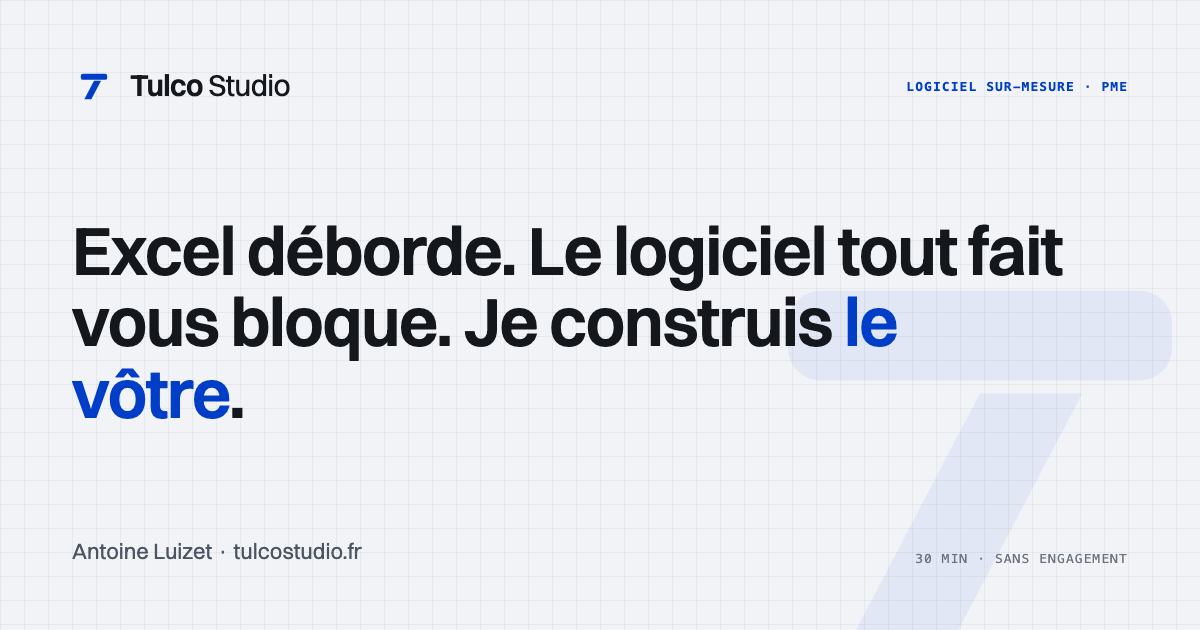
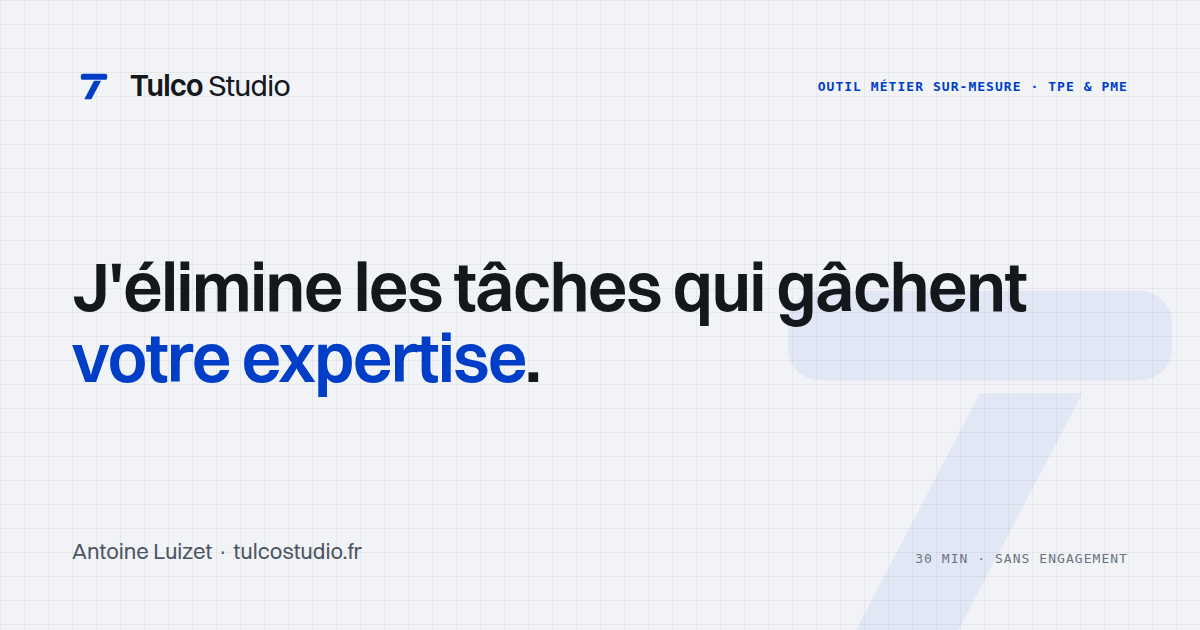
Intègre le nouveau positionnement « expertise » dans la LP
- Hero : accroche « J'élimine les tâches qui gâchent votre expertise »
  (client en avant), argent en sous-ligne, imagerie Excel/gestion manuelle
  redescendue en appui ; label de stat « répétitives » → « gestion manuelle »
- Constat : rend l'argent visible (Excel = symptôme, « l'argent fuit sans
  que vous le voyiez »)
- Pourquoi moi : remonte le vrai différenciateur — une équipe produit
  entière en une personne ; ajoute la chaîne produit en 5 blocs
  (Comprendre · Concevoir · Construire · Fiabiliser · Faire adopter,
  « le code = 1 étape sur 5 »)
- Retire « automatiser/répétitives » de la surface marketing (CTA, étape 1,
  bio) ; conserve les mentions dans les Réalisations (preuves factuelles)
- Cible élargie TPE & PME ; métadonnées, OG/Twitter et og.png régénérés
  sur la nouvelle accroche

Claude-Session: https://claude.ai/code/session_018DYJC57UY1qEqDjfR77p22

diff --git a/index.html b/index.html
@@ -4,21 +4,21 @@
 <meta charset="utf-8">
 <meta name="viewport" content="width=device-width, initial-scale=1">
 <link rel="icon" type="image/svg+xml" href="favicon.svg">
-<title>Tulco Studio · Outil sur-mesure pour PME</title>
-<meta name="description" content="Excel déborde, le logiciel tout fait vous bloque. Je construis l'outil sur-mesure taillé pour votre métier, livré vite, sans la facture d'une agence. 30 min sans engagement.">
+<title>Tulco Studio · Outil métier sur-mesure pour TPE & PME</title>
+<meta name="description" content="J'élimine les tâches qui gâchent votre expertise. Je conçois et développe l'outil métier sur-mesure qui fait disparaître la gestion manuelle — et vous rend le temps et l'argent qu'elle vous coûte. 30 min sans engagement.">
 <meta property="og:type" content="website">
 <meta property="og:url" content="https://www.tulcostudio.fr/">
 <meta property="og:site_name" content="Tulco Studio">
-<meta property="og:title" content="Tulco Studio · Outil sur-mesure pour PME">
-<meta property="og:description" content="Excel déborde. Le logiciel tout fait vous bloque. Je construis le vôtre.">
+<meta property="og:title" content="Tulco Studio · J'élimine les tâches qui gâchent votre expertise">
+<meta property="og:description" content="Un outil métier sur-mesure qui fait disparaître la gestion manuelle — et vous rend le temps et l'argent qu'elle vous coûte.">
 <meta property="og:image" content="https://www.tulcostudio.fr/og.png">
 <meta property="og:image:width" content="1200">
 <meta property="og:image:height" content="630">
-<meta property="og:image:alt" content="Tulco Studio : outil sur-mesure pour PME">
+<meta property="og:image:alt" content="Tulco Studio : outil métier sur-mesure pour TPE & PME">
 <meta property="og:locale" content="fr_FR">
 <meta name="twitter:card" content="summary_large_image">
-<meta name="twitter:title" content="Tulco Studio · Outil sur-mesure pour PME">
-<meta name="twitter:description" content="Excel déborde. Le logiciel tout fait vous bloque. Je construis le vôtre.">
+<meta name="twitter:title" content="Tulco Studio · J'élimine les tâches qui gâchent votre expertise">
+<meta name="twitter:description" content="Un outil métier sur-mesure qui fait disparaître la gestion manuelle — et vous rend le temps et l'argent qu'elle vous coûte.">
 <meta name="twitter:image" content="https://www.tulcostudio.fr/og.png">
 <script src="./support.js"></script>
 </head>
@@ -51,6 +51,11 @@
     .why-intro { grid-template-columns: 1fr; gap: 28px; }
     .why-grid { grid-template-columns: 1fr; }
   }
+  .chain-grid { display: grid; grid-template-columns: repeat(5, minmax(0, 1fr)); background: var(--border-default); gap: 1px; }
+  .chain-cell { background: var(--white); padding: clamp(18px,2vw,24px) clamp(14px,1.6vw,20px); display: flex; flex-direction: column; gap: 8px; }
+  .chain-cell.is-code { background: var(--bg-subtle); }
+  @media (max-width: 760px) { .chain-grid { grid-template-columns: repeat(2, minmax(0, 1fr)); } }
+  @media (max-width: 440px) { .chain-grid { grid-template-columns: 1fr; } }
   .hero-stats {
     display: flex;
     justify-content: flex-end;
@@ -189,9 +194,10 @@
     </div>
     <div style="position: relative; max-width: var(--container-max); margin: 0 auto; padding: clamp(48px,7vw,84px) clamp(20px,5vw,64px) clamp(36px,5vw,56px);">
       <div style="max-width: 900px;">
-        <div style="font-family: var(--font-mono); font-size: 12px; font-weight: 600; text-transform: uppercase; letter-spacing: 0.08em; color: var(--accent); margin-bottom: 16px;">Outil sur-mesure · PME</div>
-        <h1 style="margin: 0; font-weight: 600; font-size: clamp(36px,6vw,78px); line-height: var(--leading-tight); letter-spacing: var(--tracking-display); color: var(--text-primary);">Excel déborde. Le logiciel tout fait vous bloque. Je construis le vôtre.</h1>
-        <p style="margin: 28px 0 0; max-width: 620px; font-size: var(--text-md); line-height: var(--leading-relaxed); color: var(--text-secondary);">Un outil taillé pour votre métier, livré vite, sans la facture d'une agence. Vous parlez directement à celui qui construit.</p>
+        <div style="font-family: var(--font-mono); font-size: 12px; font-weight: 600; text-transform: uppercase; letter-spacing: 0.08em; color: var(--accent); margin-bottom: 16px;">Outil métier sur-mesure · TPE &amp; PME</div>
+        <h1 style="margin: 0; font-weight: 600; font-size: clamp(36px,6vw,78px); line-height: var(--leading-tight); letter-spacing: var(--tracking-display); color: var(--text-primary);">J'élimine les tâches qui gâchent votre expertise.</h1>
+        <p style="margin: 24px 0 0; max-width: 660px; font-size: var(--text-lg); line-height: 1.35; color: var(--text-primary); font-weight: 500;">Le temps et l'argent qu'elles vous coûtent, vous les remettez sur ce que vous faites de mieux.</p>
+        <p style="margin: 18px 0 0; max-width: 620px; font-size: var(--text-md); line-height: var(--leading-relaxed); color: var(--text-secondary);">Je conçois et développe un outil métier sur-mesure qui fait disparaître la gestion manuelle — saisie en double, relances, facturation, reporting. Livré vite, sans la facture d'une agence. Vous parlez directement à celui qui construit.</p>
         <div class="hero-cta">
           <x-import component-from-global-scope="TulcoStudioDesignSystem_ac5776.Button" variant="primary" size="lg" onClick="{{ openBooking }}" hint-size="240px,50px">Réserver un appel de 30 min</x-import>
           <x-import component-from-global-scope="TulcoStudioDesignSystem_ac5776.Button" variant="secondary" size="lg" onClick="{{ jumpRealisations }}" hint-size="200px,50px">Voir des exemples concrets</x-import>
@@ -200,7 +206,7 @@
       <div class="hero-stats">
         <div class="hero-stat">
           <div class="hero-stat-value">−50&nbsp;% de temps</div>
-          <div class="hero-stat-label">sur les tâches répétitives</div>
+          <div class="hero-stat-label">sur la gestion manuelle</div>
         </div>
         <div class="hero-stat">
           <div class="hero-stat-value">2x plus</div>
@@ -219,8 +225,9 @@
       <div>
         <div style="font-family: var(--font-mono); font-size: 12px; font-weight: 600; text-transform: uppercase; letter-spacing: 0.08em; color: var(--accent); margin-bottom: 16px;">Le constat</div>
         <h2 style="margin: 0 0 20px; font-weight: 600; font-size: clamp(26px,4vw,42px); letter-spacing: var(--tracking-heading); max-width: 520px;">Fichiers qui débordent, logiciel qui vous bloque.</h2>
-        <p style="margin: 0 0 16px; font-size: var(--text-md); line-height: var(--leading-relaxed); color: var(--text-secondary); max-width: 460px;">Au début, Excel suffisait. Vous avez ajouté un logiciel du marché. Aujourd'hui, ni l'un ni l'autre n'épouse vraiment votre métier.</p>
-        <p style="margin: 0; font-size: var(--text-md); line-height: var(--leading-relaxed); color: var(--text-primary); max-width: 460px;">Ce n'est pas un problème de motivation, c'est un problème d'outil. Le logiciel tout fait est trop rigide ou hors de prix. Et une agence vous facture six mois et trois intermédiaires pour quelque chose que vous ne maîtriserez jamais.</p>
+        <p style="margin: 0 0 16px; font-size: var(--text-md); line-height: var(--leading-relaxed); color: var(--text-secondary); max-width: 460px;">Au début, Excel suffisait. Vous avez ajouté un logiciel du marché. Aujourd'hui, ni l'un ni l'autre n'épouse vraiment votre métier — et chaque tâche gérée à la main vous coûte du temps et de l'argent.</p>
+        <p style="margin: 0 0 16px; font-size: var(--text-md); line-height: var(--leading-relaxed); color: var(--text-primary); max-width: 460px;">Ce n'est pas un problème de motivation, c'est un problème d'outil. Le logiciel tout fait est trop rigide ou hors de prix. Et une agence vous facture six mois et trois intermédiaires pour quelque chose que vous ne maîtriserez jamais.</p>
+        <p style="margin: 0; font-size: var(--text-md); line-height: var(--leading-relaxed); color: var(--text-primary); max-width: 460px; font-weight: 500;">Excel n'est plus l'outil : c'est le symptôme. Quand tout tourne sur des tableurs et de la mémoire, l'argent fuit sans que vous le voyiez.</p>
       </div>
       <div style="background: var(--white); border: 1px solid var(--border-default); border-top: var(--rule-accent) solid var(--danger);">
         <div style="display: flex; gap: 14px; align-items: flex-start; padding: var(--space-5) var(--space-6); border-bottom: 1px solid var(--border-default);">
@@ -258,7 +265,7 @@
   <section id="solution" data-screen-label="Solution" style="border-bottom: 1px solid var(--border-default);">
     <div style="max-width: var(--container-max); margin: 0 auto; padding: clamp(48px,8vw,96px) clamp(20px,5vw,64px);">
       <div style="font-family: var(--font-mono); font-size: 12px; font-weight: 600; text-transform: uppercase; letter-spacing: 0.08em; color: var(--accent); margin-bottom: 16px;">Pourquoi moi</div>
-      <h2 style="margin: 0 0 clamp(36px,5vw,56px); font-weight: 600; font-size: clamp(26px,4vw,42px); letter-spacing: var(--tracking-heading); max-width: 720px;">Un seul interlocuteur, qui conçoit et qui code votre outil.</h2>
+      <h2 style="margin: 0 0 clamp(36px,5vw,56px); font-weight: 600; font-size: clamp(26px,4vw,42px); letter-spacing: var(--tracking-heading); max-width: 720px;">Une équipe produit entière. En une seule personne.</h2>
       <div class="why-intro" style="margin-bottom: clamp(36px,5vw,56px);">
         <div data-reveal="" style="display: flex; flex-direction: column; gap: 16px;">
           <img src="assets/antoine.png" alt="Antoine Luizet, fondateur de Tulco Studio" style="width: 200px; height: 200px; max-width: 100%; border-radius: 50%; display: block; border: 2px solid var(--accent);">
@@ -268,8 +275,45 @@
           </div>
         </div>
         <div style="display: flex; flex-direction: column; gap: 18px; max-width: 640px;">
-          <p style="margin: 0; font-size: var(--text-md); line-height: var(--leading-relaxed); color: var(--text-secondary);">Je m'appelle Antoine Luizet. Je construis des outils sur-mesure pour les PME, pour remplacer Excel et les logiciels tout faits qui vous bloquent.</p>
-          <p style="margin: 0; font-size: var(--text-md); line-height: var(--leading-relaxed); color: var(--text-secondary);">Concrètement : des interfaces de gestion claires, des automatisations qui tournent toutes seules (emails, SMS, documents, facturation) et un pilotage de votre activité en temps réel. Le tout calé sur votre façon de travailler, pas l'inverse.</p>
+          <p style="margin: 0; font-size: var(--text-md); line-height: var(--leading-relaxed); color: var(--text-secondary);">Je m'appelle Antoine Luizet. Je construis des outils métier sur-mesure pour les TPE et PME, pour remplacer Excel et les logiciels tout faits qui vous bloquent.</p>
+          <p style="margin: 0; font-size: var(--text-md); line-height: var(--leading-relaxed); color: var(--text-secondary);">Concrètement : des interfaces de gestion claires, des tâches qui se font toutes seules (emails, SMS, documents, facturation) et un pilotage de votre activité en temps réel — calés sur votre façon de travailler, pas l'inverse.</p>
+          <p style="margin: 0; font-size: var(--text-md); line-height: var(--leading-relaxed); color: var(--text-secondary);">Vous n'avez pas à assembler un designer, un dev, un intégrateur et une agence : un seul cerveau garde l'outil cohérent et fidèle à votre métier, du problème jusqu'à l'usage.</p>
+        </div>
+      </div>
+      <div data-reveal="" style="margin-bottom: clamp(36px,5vw,56px); border: 1px solid var(--border-default); border-top: var(--rule-accent) solid var(--accent);">
+        <div style="display: flex; align-items: center; justify-content: space-between; gap: 12px; flex-wrap: wrap; padding: 16px clamp(20px,3vw,28px); background: var(--white); border-bottom: 1px solid var(--border-default);">
+          <span style="font-family: var(--font-mono); font-size: 12px; font-weight: 600; text-transform: uppercase; letter-spacing: 0.05em; color: var(--accent);">La chaîne produit, de bout en bout</span>
+          <span style="font-family: var(--font-mono); font-size: 11px; text-transform: uppercase; letter-spacing: 0.04em; color: var(--text-tertiary);">Le code = 1 étape sur 5</span>
+        </div>
+        <div class="chain-grid">
+          <div class="chain-cell">
+            <span style="font-family: var(--font-mono); font-size: 12px; font-weight: 600; color: var(--accent); font-variant-numeric: tabular-nums;">01</span>
+            <span style="font-weight: 600; font-size: var(--text-md); letter-spacing: var(--tracking-normal); color: var(--text-primary);">Comprendre</span>
+            <span style="font-size: 13px; line-height: 1.5; color: var(--text-secondary);">Cadrer le bon problème, dans votre métier.</span>
+          </div>
+          <div class="chain-cell">
+            <span style="font-family: var(--font-mono); font-size: 12px; font-weight: 600; color: var(--accent); font-variant-numeric: tabular-nums;">02</span>
+            <span style="font-weight: 600; font-size: var(--text-md); letter-spacing: var(--tracking-normal); color: var(--text-primary);">Concevoir</span>
+            <span style="font-size: 13px; line-height: 1.5; color: var(--text-secondary);">Le traduire en outil clair et simple à utiliser.</span>
+          </div>
+          <div class="chain-cell is-code">
+            <div style="display: flex; align-items: center; gap: 8px;"><span style="font-family: var(--font-mono); font-size: 12px; font-weight: 600; color: var(--accent); font-variant-numeric: tabular-nums;">03</span><span style="font-family: var(--font-mono); font-size: 10px; text-transform: uppercase; letter-spacing: 0.04em; padding: 2px 7px; background: var(--accent); color: #fff;">Le code</span></div>
+            <span style="font-weight: 600; font-size: var(--text-md); letter-spacing: var(--tracking-normal); color: var(--text-primary);">Construire</span>
+            <span style="font-size: 13px; line-height: 1.5; color: var(--text-secondary);">Écrire l'application. La partie visible — et la plus courte.</span>
+          </div>
+          <div class="chain-cell">
+            <span style="font-family: var(--font-mono); font-size: 12px; font-weight: 600; color: var(--accent); font-variant-numeric: tabular-nums;">04</span>
+            <span style="font-weight: 600; font-size: var(--text-md); letter-spacing: var(--tracking-normal); color: var(--text-primary);">Fiabiliser</span>
+            <span style="font-size: 13px; line-height: 1.5; color: var(--text-secondary);">Le rendre solide et le mettre en ligne pour de vrai.</span>
+          </div>
+          <div class="chain-cell">
+            <span style="font-family: var(--font-mono); font-size: 12px; font-weight: 600; color: var(--accent); font-variant-numeric: tabular-nums;">05</span>
+            <span style="font-weight: 600; font-size: var(--text-md); letter-spacing: var(--tracking-normal); color: var(--text-primary);">Faire adopter</span>
+            <span style="font-size: 13px; line-height: 1.5; color: var(--text-secondary);">Sans quoi l'outil n'existe pour personne.</span>
+          </div>
+        </div>
+        <div style="padding: 16px clamp(20px,3vw,28px); background: var(--white); border-top: 1px solid var(--border-default);">
+          <p style="margin: 0; font-size: var(--text-sm); line-height: 1.6; color: var(--text-secondary);">Écrire le code, tout le monde en parle. Le vrai travail — cadrer le bon problème, concevoir, fiabiliser, faire adopter — ce sont les 70 % que la plupart sautent. Je fais les cinq.</p>
         </div>
       </div>
       <div id="solutionLedger" data-reveal="" data-stagger="" class="why-grid" style="border-top: 2px solid var(--text-primary);">
@@ -314,7 +358,7 @@
           <div style="display: inline-flex; align-items: center; justify-content: center; width: 52px; height: 52px; border: 1px solid var(--border-default); background: var(--white);"><svg width="26" height="26" viewBox="0 0 24 24" fill="none" stroke="var(--accent)" stroke-width="2" stroke-linecap="square" stroke-linejoin="miter"><rect x="6" y="3" width="12" height="18"></rect><line x1="6" y1="7" x2="18" y2="7"></line><line x1="6" y1="17" x2="18" y2="17"></line><line x1="10.5" y1="19.5" x2="13.5" y2="19.5"></line></svg></div>
           <div style="margin-top: 14px; font-family: var(--font-mono); font-size: 12px; font-weight: 600; text-transform: uppercase; letter-spacing: 0.05em; color: var(--accent);">Étape 1</div>
           <h3 style="margin: 10px 0 8px; font-weight: 600; font-size: var(--text-lg);">Appel découverte, 30 min</h3>
-          <p style="margin: 0; font-size: var(--text-sm); line-height: 1.6; color: var(--text-secondary);">Vous me montrez vos fichiers et votre quotidien. Je vous donne un premier avis honnête sur ce qui peut être automatisé, même si la réponse est « vous n'avez pas besoin de moi ».</p>
+          <p style="margin: 0; font-size: var(--text-sm); line-height: 1.6; color: var(--text-secondary);">Vous me montrez vos fichiers et votre quotidien. Je vous donne un premier avis honnête sur ce qui peut vous rendre du temps et de l'argent, même si la réponse est « vous n'avez pas besoin de moi ».</p>
         </div>
         <div data-reveal="" style="padding: var(--space-6) 0 0; border-top: var(--rule-accent) solid var(--accent); margin-top: -1px;">
           <div style="display: inline-flex; align-items: center; justify-content: center; width: 52px; height: 52px; border: 1px solid var(--border-default); background: var(--white);"><svg width="26" height="26" viewBox="0 0 24 24" fill="none" stroke="var(--accent)" stroke-width="2" stroke-linecap="square" stroke-linejoin="miter"><rect x="4" y="4" width="11" height="11"></rect><line x1="7" y1="8" x2="12" y2="8"></line><line x1="7" y1="11" x2="10" y2="11"></line><line x1="14.5" y1="14.5" x2="21" y2="21"></line></svg></div>
@@ -451,7 +495,7 @@
           <div style="font-family: var(--font-mono); font-size: 12px; font-weight: 600; text-transform: uppercase; letter-spacing: 0.05em; color: var(--success); margin-bottom: 20px;">C'est pour vous si</div>
           <div style="display: flex; flex-direction: column; gap: 14px;">
             <div style="display: flex; gap: 12px; align-items: flex-start;"><span style="flex: none; width: 8px; height: 8px; margin-top: 7px; background: var(--success);"></span><p style="margin: 0; font-size: var(--text-sm); line-height: 1.6; color: var(--text-primary);">Votre PME tourne sur des fichiers Excel ou un logiciel tout fait qui ne suit pas votre métier.</p></div>
-            <div style="display: flex; gap: 12px; align-items: flex-start;"><span style="flex: none; width: 8px; height: 8px; margin-top: 7px; background: var(--success);"></span><p style="margin: 0; font-size: var(--text-sm); line-height: 1.6; color: var(--text-primary);">Vos équipes passent trop de temps sur de la saisie et des tâches répétitives.</p></div>
+            <div style="display: flex; gap: 12px; align-items: flex-start;"><span style="flex: none; width: 8px; height: 8px; margin-top: 7px; background: var(--success);"></span><p style="margin: 0; font-size: var(--text-sm); line-height: 1.6; color: var(--text-primary);">Vos équipes passent trop de temps sur de la saisie et de la gestion manuelle.</p></div>
             <div style="display: flex; gap: 12px; align-items: flex-start;"><span style="flex: none; width: 8px; height: 8px; margin-top: 7px; background: var(--success);"></span><p style="margin: 0; font-size: var(--text-sm); line-height: 1.6; color: var(--text-primary);">Vous voulez un outil qui colle à votre métier, pas un logiciel générique de plus.</p></div>
             <div style="display: flex; gap: 12px; align-items: flex-start;"><span style="flex: none; width: 8px; height: 8px; margin-top: 7px; background: var(--success);"></span><p style="margin: 0; font-size: var(--text-sm); line-height: 1.6; color: var(--text-primary);">Vous préférez parler à un seul interlocuteur qui comprend et qui construit.</p></div>
           </div>
@@ -492,8 +536,8 @@
   <section data-screen-label="CTA" style="background: var(--accent); color: #fff;">
     <div style="max-width: var(--container-max); margin: 0 auto; padding: clamp(52px,8vw,104px) clamp(20px,5vw,64px);">
       <div style="max-width: 720px;">
-        <h2 style="margin: 0; font-weight: 600; font-size: clamp(28px,4.4vw,52px); line-height: var(--leading-tight); letter-spacing: var(--tracking-heading);">Montrez-moi vos fichiers. Je vous dis ce qu'on peut automatiser.</h2>
-        <p style="margin: 20px 0 0; font-size: var(--text-md); line-height: var(--leading-relaxed); color: rgba(255,255,255,0.82); max-width: 600px;">Trente minutes, sans engagement. On regarde votre quotidien, je vous donne un avis honnête sur ce qui peut vous faire gagner du temps, et sur ce qui n'en vaut pas la peine.</p>
+        <h2 style="margin: 0; font-weight: 600; font-size: clamp(28px,4.4vw,52px); line-height: var(--leading-tight); letter-spacing: var(--tracking-heading);">Montrez-moi vos fichiers. Je vous dis où part votre temps — et votre argent.</h2>
+        <p style="margin: 20px 0 0; font-size: var(--text-md); line-height: var(--leading-relaxed); color: rgba(255,255,255,0.82); max-width: 600px;">Trente minutes, sans engagement. On regarde votre quotidien, je vous donne un avis honnête sur ce qui peut vous rendre du temps et de l'argent, et sur ce qui n'en vaut pas la peine.</p>
         <div style="display: flex; gap: 12px; margin-top: 32px; flex-wrap: wrap; align-items: center;">
           <x-import component-from-global-scope="TulcoStudioDesignSystem_ac5776.Button" variant="secondary" size="lg" onClick="{{ openBooking }}" hint-size="240px,50px">Réserver un appel de 30 min</x-import>
           <span style="font-family: var(--font-mono); font-size: 11px; text-transform: uppercase; letter-spacing: 0.05em; color: rgba(255,255,255,0.6);">Antoine Luizet · Tulco Studio · Biarritz, France</span>
@@ -506,7 +550,7 @@
     <div style="max-width: var(--container-max); margin: 0 auto; display: flex; flex-wrap: wrap; gap: 48px; justify-content: space-between;">
       <div style="max-width: 360px; display: flex; flex-direction: column; gap: 16px;">
         <x-import component-from-global-scope="TulcoStudioDesignSystem_ac5776.Logo" variant="horizontal" tone="white" height="24" hint-size="150px,24px"></x-import>
-        <p style="margin: 0; font-size: var(--text-sm); line-height: 1.6; color: rgba(255,255,255,0.6);">Je construis des outils sur-mesure pour les PME, pour remplacer Excel et les logiciels tout faits qui vous bloquent.</p>
+        <p style="margin: 0; font-size: var(--text-sm); line-height: 1.6; color: rgba(255,255,255,0.6);">Je construis des outils métier sur-mesure pour les TPE et PME, pour remplacer Excel et les logiciels tout faits qui vous bloquent.</p>
       </div>
       <div style="display: flex; gap: 64px; flex-wrap: wrap;">
         <div style="display: flex; flex-direction: column; gap: 10px;">

diff --git a/og-card.html b/og-card.html
@@ -93,11 +93,11 @@
       </svg>
       <div class="logo-text"><span class="strong">Tulco</span><span class="regular"> Studio</span></div>
     </div>
-    <div class="eyebrow">Logiciel sur-mesure · PME</div>
+    <div class="eyebrow">Outil métier sur-mesure · TPE &amp; PME</div>
   </div>
 
   <div class="headline">
-    Excel déborde. Le logiciel tout fait vous bloque. Je construis <span class="accent">le vôtre</span>.
+    J'élimine les tâches qui gâchent <span class="accent">votre expertise</span>.
   </div>
 
   <div class="footer">
